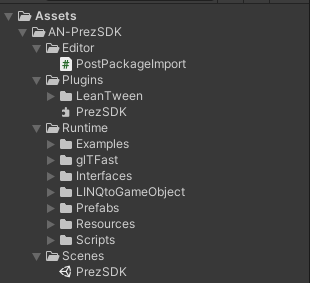
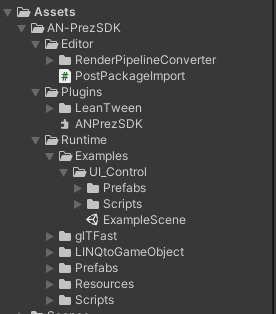
Updated user documentation to version 0.2 of SDK

Changed region(s): [[0.0, 0.0, 0.7826, 1.0], [0.9855, 0.0, 1.0, 1.0]]

diff --git a/Docs/get-started.md b/Docs/get-started.md
@@ -1,10 +1,13 @@
 
-ANPrez SDK
-============
+# ANPrez SDK
 
+## Compatible Unity Versions
 Unity 2020.3.11f1, 2021.2.2f1
 
-ANPrez SDK can be downloaded by either a UnityPackage or directly from the Package Manager.
+ANPrez SDK can be downloaded by either a UnityPackage or directly from the Package Manager using the SDK's git URL.
+
+## Steps to setup ANPrez SDK in your Unity project
+### Common steps
 
 1.  Create an empty project in Unity
 
@@ -12,91 +15,88 @@ ANPrez SDK can be downloaded by either a UnityPackage or directly from the Packa
 
 ![Import TMP](images/image10.png)
 
-3.  Search for ‘Brandon-Regular Material’ in the Project. If the shader is pink i.e ‘Hidden/InternalErrorShader’ like in the below Fig 1, then click on dropdown and select ‘TextMeshPro/DistanceField’ like in Fig 2.
-
-![Update Shader](images/image9.png)
-
-Fig 1
-
-![](images/image18.png)
-
-Fig 2
-
-4.  Click Import when the import dialog opens
+3.  Click Import when the import dialog opens
 
 ![Import Package](images/image5.png)
 
-Steps to import ANPrez SDK
-==========================
+4. Restart the Unity Editor to finish TextMeshPro configuration
 
-Using ANPrezSDK.unitypackage
-----------------------------
+5. Import "Burst" package from PackageManager. Change the "Packages" to "UnityRegistry" like in below image and click install.
 
-5.  Import “PrezSDK.unitypackage” into the project by either drag and drop or Assets-Import Package-Custom Package and selecting the package. When the import dialog opens, make sure everything is selected and click “Import”
+![Import Package](images/ImportBurst.png)
+
+
+## Using ANPrezSDK.unitypackage
+
+Import “PrezSDK.unitypackage” into the project by either drag and drop or Assets-Import Package-Custom Package and selecting the package. When the import dialog opens, make sure everything is selected and click “Import”
 
 ![Import PrezSDK package](images/image6.png)
 
-Using Package Manager
----------------------
+## Using Package Manager
 
 Users can import ANPrezSDK in to their projects using the git URL i.e [https://github.com/AfterNow/ANPrezSDK.git](https://www.google.com/url?q=https://github.com/AfterNow/ANPrezSDK.git&sa=D&source=editors&ust=1644002252952449&usg=AOvVaw0EhSYsVmkgdTDpso5PGuR-)
 
 ![Import PrezSDK from URL](images/image14.png)
 
-6.  In Unity, go to Window-Package Manager and click on the ‘+’ button. Here you will see options to load the package using
+In Unity, go to Window-Package Manager and click on the ‘+’ button. Here you will see options to load the package using
 
-1.  #### Add package from disk
-    
+### **Add package from disk**
 
 If the user has downloaded the SDK directly to their computer, select ‘package.json’ from Packages/com.afternow.anprezsdk/
 
-2.  #### Add package from tarball
-    
+### **Add package from tarball**
 
 Select the ‘ANPrezSDK.tgz’ or ‘ANPrezSDK.tar.gz’ file
 
-3.  #### Add package from git URL
-    
+### **Add package from git URL**
 
 Insert the git URL into the field. Make sure the link is valid by opening in the web browser once. Click ‘Add’ after inserting the URL.
 
 ![Enter URL of PrezSDK git](images/image17.png)
 
-7.  Once the package is imported using any of the above mentioned methods, package details will be visible in the Package Manager like in the image below.
+Once the package is imported using any of the above mentioned methods, package details will be visible in the Package Manager like in the image below.
 
 ![Verify PrezSDK information](images/image16.png)
 
-8.  In the above image the User can see
+In the above image the User can see
 
-View Documentation - Clicking this opens up web browser displaying the documentation of the SDK
+*View Documentation* - Clicking this opens up web browser displaying the documentation of the SDK
 
-View Changelog - Clicking this opens up the SDK’s changelog in a web browser where User can see the changes provided in the new version of SDK.
+*View Changelog* - Clicking this opens up the SDK’s changelog in a web browser where User can see the changes provided in the new version of SDK.
 
-View Licenses - Clicking this opens up a license document
+*View Licenses* - Clicking this opens up a license document
 
-Description - Description about the purpose of the SDK and what can it offer
+*Description* - Description about the purpose of the SDK and what can it offer
 
-Installed from - Git URL using which the package has been downloaded
+*Installed from* - Git URL using which the package has been downloaded
 
-Sample Projects - Links to download sample projects  provided. User can download them to respective to their platform of choice
+*Sample Projects* - Links to download sample projects  provided. User can download them to respective to their platform of choice
 
-9.  Once the package is imported successfully, you will see the package contents in the “AN-PrezSDK“ folder like in the below image
+Once the package is imported successfully, you will see the package contents in the “AN-PrezSDK“ folder like in the below image
 
 ![PrezSDK folder structure](images/image12.png)
 
-10.  Open “SDK” scene which is in Assets\\Scripts\\SDK\\Unity\\Scenes
+Open *ExampleScene* scene which is in Assets\AN-PrezSDK\Runtime\Examples\UI_Control
 
-11.  This is how the hierarchy of the “SDK” scene looks like :
+This is how the hierarchy of the *ExampleScene* scene looks like :
 
 ![PrezSDK Sample scene](images/image15.png)
 
-12.  The gameobject “AnPrezSDK” has a script called “PrezSDKManager”. This script is responsible for loading the presentation. If you select the “AnPrezSDK” gameobject, you can see there are some fields in the “PrezSDKManager” component in the inspector panel.
+The gameobject **PrezSDKManager** has a script called **PrezSDKManager**. This script is responsible for loading the presentation. If you select the **PrezSDKManager** gameobject, you can see there are some fields in the **PrezSDKManager** component in the inspector panel.
 
 ![PrezSDK main prefab](images/image11.png)
 
-13.  The UI for importing a presentation looks like this in “SDK” scene :
+## UI
+The UI inside the SDK consists of 3 types of menus
 
-![PrezSDK sample UI](images/image1.png)
+### User Login Menu
+![PrezSDK sample UI](images/UserLoginMenu.png)
+
+### Load Presentation Menu
+![PrezSDK sample UI](images/LoadPresentationMenu.png)
+
+### Play Presentation Menu
+![PrezSDK sample UI](images/PlayPresentationMenu.png)
 
 ### UI Elements
 
@@ -116,15 +116,15 @@ Current Slide - Displays current slide serial number
 
 Quit \- Quits presentation and returns to the login UI
 
-14.  Go to Play mode. Enter a presentation ID in the “Presentation ID” input field and hit “Load Presentation” button
+## Usage
+* Login using the user credentials
+* Go to Play mode. Enter a presentation ID in the “Presentation ID” input field and hit “Load Presentation” button
 
-![](images/image3.png)
+![](images/Sample_LoadPresentationMenu.png)
 
-15.  Navigate through the presentation using the ‘Previous Slide’, ‘Next Slide’ and ‘Next Step’ buttons.
+* Navigate through the presentation using the ‘Previous Slide’, ‘Next Slide’ and ‘Next Step’ buttons.
 
-![](images/image8.png)
-
-![](images/image13.png)
+![](images/Sample_PlayPresentationMenu.png)
 
 Issue Handling
 ==============
@@ -133,12 +133,7 @@ Issue Handling
 
 ![](images/image4.png)
 
-2.  If using Universal Render Pipeline (URP) in the project and if any glb models turns purple on Quest, try adding the below shaders from the glTFast folder of the SDK (Fig 1) to the ‘Always Included Shaders’ list of ‘Graphics’ settings in Unity (Fig 2).
+2. Incase if any UI elements seems to be not working, make sure to import the **TextMeshPro Essentials** package from the Window->TextMeshPro->Import TMP Essential Resources wizard 
+(This wizard will also automatically opens when the user drag and drops the 'ExampleController' prefab in to the scene)
 
-![](images/image7.png)
-
-Fig 1
-
-![](images/image2.png)
-
-Fig 2
+3. Incase if the UI seems to be not responding to user clicks, make sure there is an 'EventSystem' in the scene if not already present.
